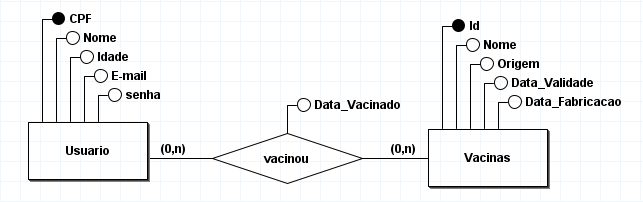
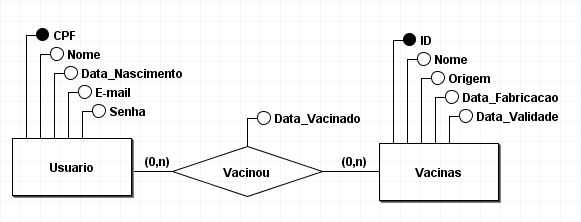
conserto na data_nascimento

Changed region(s): [[0.0, 0.0594, 0.9914, 0.9505], [0.7126, 0.7426, 0.8055, 0.802]]

diff --git a/Site/HTML/login.php b/Site/HTML/login.php
@@ -8,7 +8,7 @@ if ($_SERVER["REQUEST_METHOD"] == "POST") {
     
     $cpf = isset($_POST['cpf']) ? $_POST['cpf'] : "";
     $nome = isset($_POST['nome']) ? $_POST['nome'] : "";
-    $idade = isset($_POST['idade']) ? $_POST['idade'] : "";
+    $data_nasc = isset($_POST['data_nasc']) ? $_POST['data_nasc'] : "";
     $email = isset($_POST['email']) ? $_POST['email'] : "";
     $senha = isset($_POST['senha']) ? $_POST['senha'] : "";
     $cpflog = isset($_POST['cpflog']) ? $_POST['cpflog'] : "";
@@ -26,7 +26,7 @@ if ($_SERVER["REQUEST_METHOD"] == "POST") {
     }
 
     if (!empty($cpf)) {
-        $user->cadastrar($cpf, $nome, $idade, $email, $senha);
+        $user->cadastrar($cpf, $nome, $data_nasc, $email, $senha);
         $user->login($cpf, $senha);
     } 
 
@@ -94,8 +94,8 @@ if ($_SERVER["REQUEST_METHOD"] == "POST") {
                     <i class="bi bi-person-vcard"></i>
                 </div>
                 <div class="input-box animation" style="--i:19; --j:2">
-                    <input type="number" name="idade" required>
-                    <label>idade</label>
+                    <input type="number" name="data_nasc" value="Ex: 1988-05-27" required>
+                    <label>Data de Nascimento</label>
                     <i class="bi bi-person-fill-up"></i>
                 </div>
                 <div class="input-box animation"style="--i:20; --j:3">

diff --git a/Site/PHP/usuario.php b/Site/PHP/usuario.php
@@ -4,9 +4,9 @@ include_once("conexao.php");
 
 class Usuario extends Conectar {
 
-  public function cadastrar($cpf, $nome, $idade, $email, $senha) {
+  public function cadastrar($cpf, $nome, $data_nasc, $email, $senha) {
     try {
-      $sql = "INSERT INTO usuario (CPF, Nome, Idade, E_mail, senha) VALUES ('$cpf', '$nome', $idade, '$email', '$senha')";
+      $sql = "INSERT INTO usuario (CPF, Nome, Data_Nascimento, E_mail, senha) VALUES ('$cpf', '$nome', $data_nasc, '$email', '$senha')";
       $stmt = $this->getConn()->exec($sql);
     } catch (PDOException $e) {
       echo $sql . "<br>" . $e->getMessage();
@@ -38,7 +38,7 @@ class Usuario extends Conectar {
       $stmt->execute();
       $user = $stmt->fetch();
       $_SESSION['cpf'] = $user[0];
-      $_SESSION['idade'] = $user[2];
+      $_SESSION['data_nasc'] = $user[2];
       $_SESSION['email'] = $user[3];
       $_SESSION['senha'] = $user[4];
     } catch (PDOException $e) {

diff --git a/Site/HTML/perfil.php b/Site/HTML/perfil.php
@@ -118,6 +118,12 @@ if ($nvsenha == $confirmsenha && !empty($nvsenha) && !empty($confirmsenha)) {
                                         <input type="text" readonly class="form-control" value="<?php echo $_SESSION["cpf"]; ?>">
                                     </div>
                                 </div>
+                                <div class="col-md-6">
+                                    <div class="form-group">
+                                        <label>CPF</label>
+                                        <input type="text" readonly class="form-control" value="<?php echo $_SESSION["data_nasc"]; ?>">
+                                    </div>
+                                </div>
                                 <form action="../PHP/sair.php" method="post" class="mx-auto">
                                     <button class="btn btn-light" >Sair da Conta</button>
                                 </form>
